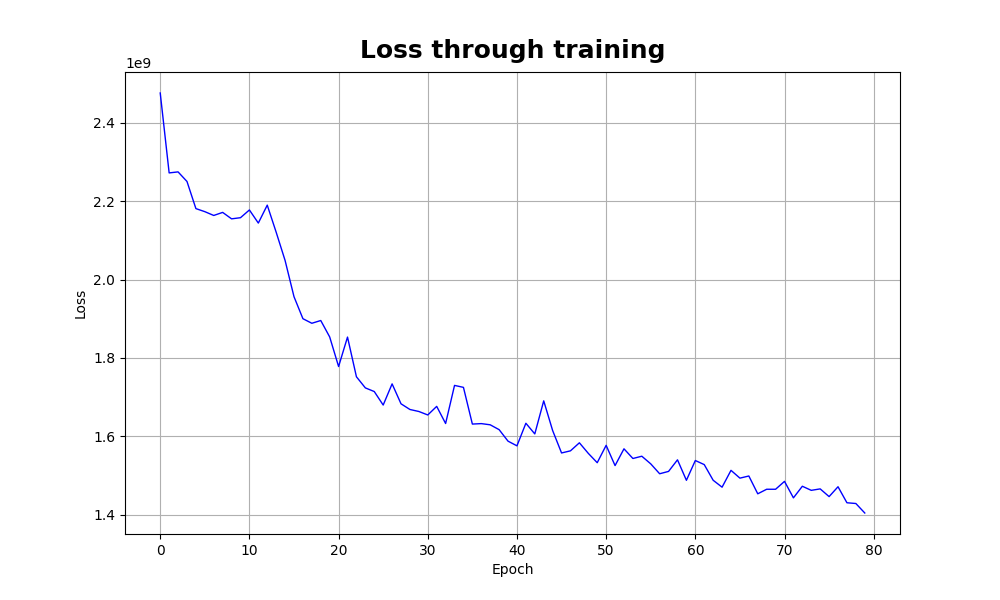
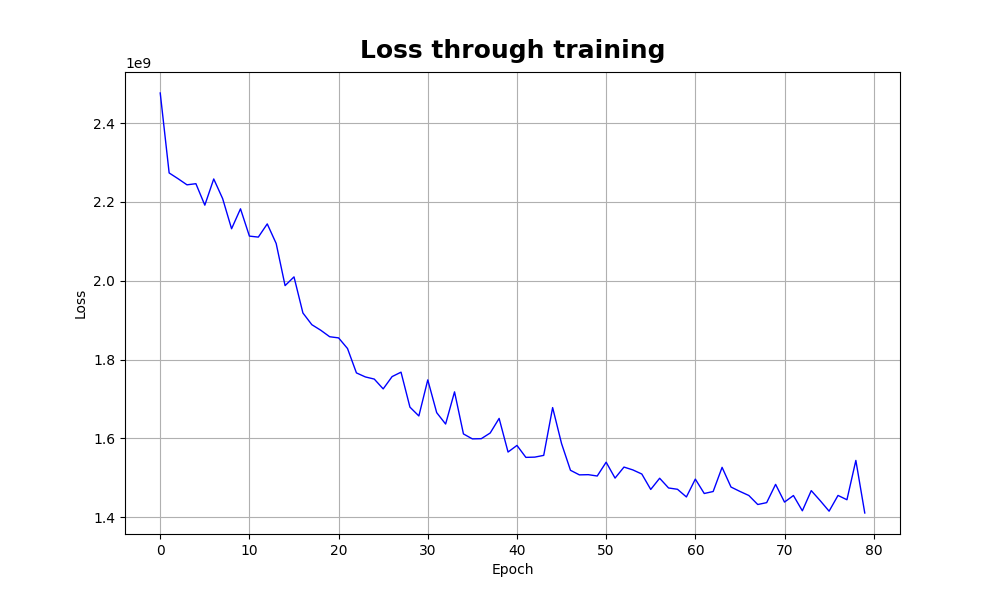
commit

diff --git a/Main.py b/Main.py
@@ -29,10 +29,10 @@ def main():
 
     # definisci possibili scelte per cross validation
     input_layer = X_train.shape[0]
-    num_neurons_list = [[input_layer, 128, 1], [input_layer, 128, 32, 1], [input_layer, 128, 64, 1], [input_layer, 128, 64, 32, 1], [input_layer, 128, 64, 64, 1]]
+    num_neurons_list = [[input_layer, 128, 1], [input_layer, 128, 64, 1], [input_layer, 128, 64, 64, 1]]
     lambda_list = [1e-3, 1e-1]
     activation_fn_list = ["relu", "tanh"]
-    minibatch_size_list = [100]
+    minibatch_size_list = [128]
     num_epochs_list = [80]
     best_parameters, activation_function = cross_validation(X_train, y_train, X_val, y_val, num_neurons_list, lambda_list, activation_fn_list, num_epochs_list, minibatch_size_list, dir)
 

diff --git a/CrossValidation.py b/CrossValidation.py
@@ -100,6 +100,7 @@ def cross_validation(X_train, Y_train, X_val, Y_val, num_neurons_list, lambda_li
     else:
         text = f"Best configuration is {best_neurons} using {regularization_list[best_regularization]} with lambda {best_lambda}, activation function {best_activation_fn}, {best_epochs} epochs and minibatch of size {best_minibatch_size}"
 
+    print(f"The error on training set is: {best_error}")
     print(text)
     text2 = "The RMSE on validation set is: "+str(best_rmse)
     print(text2)
